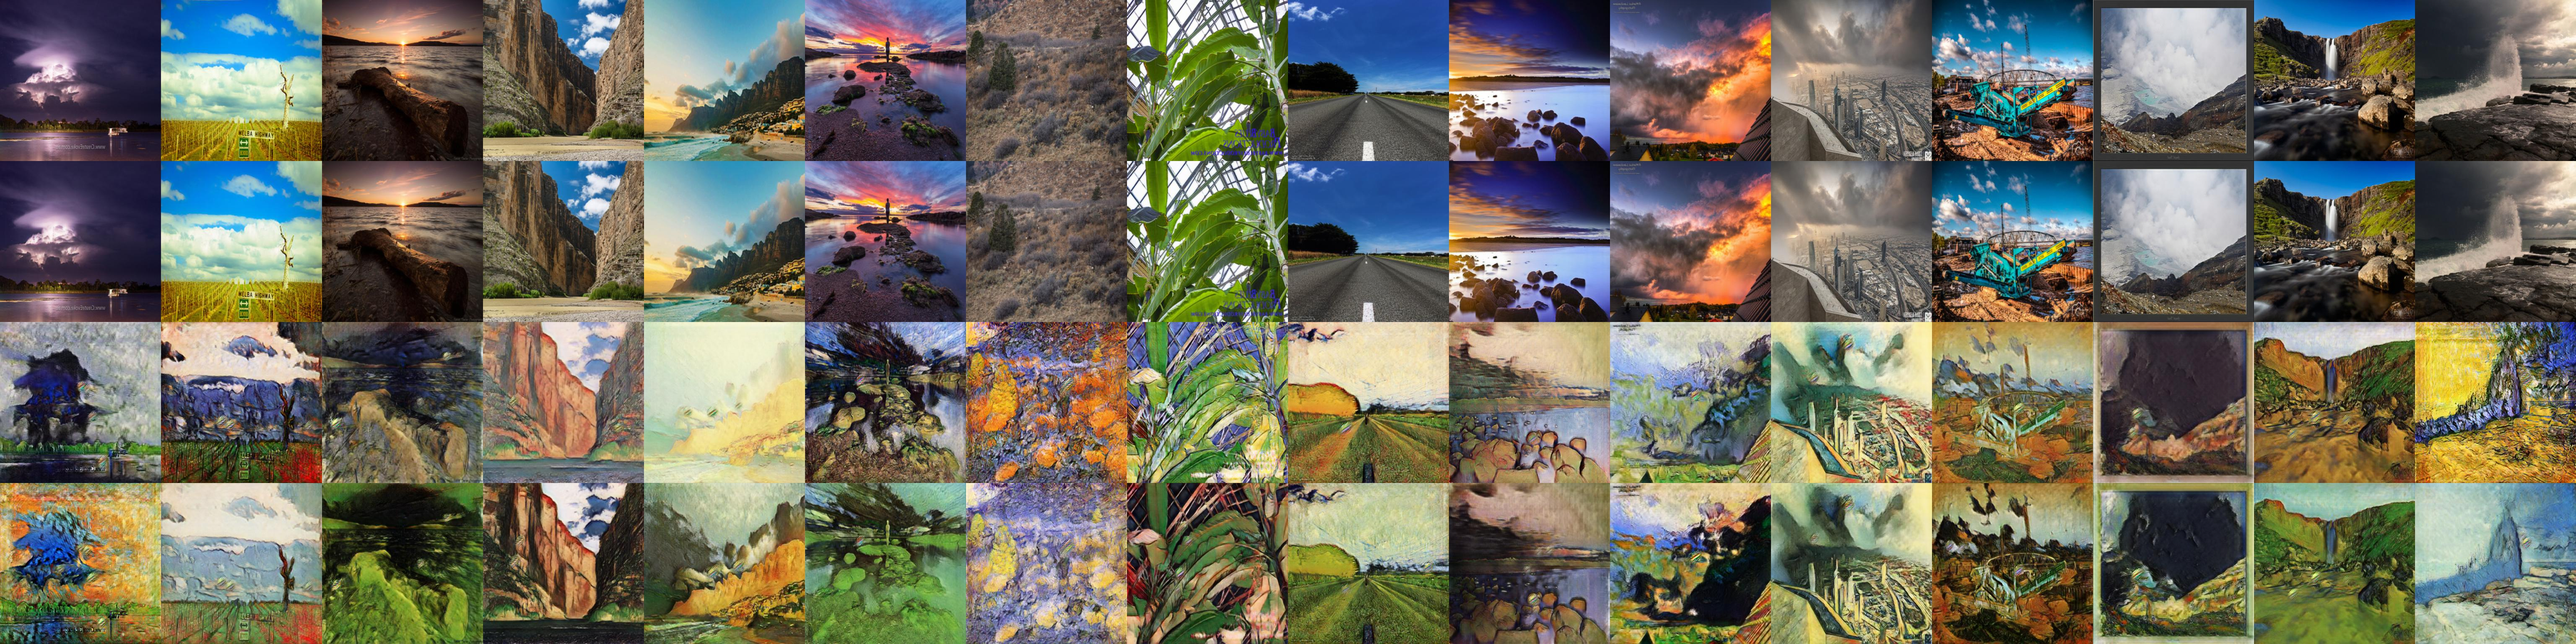
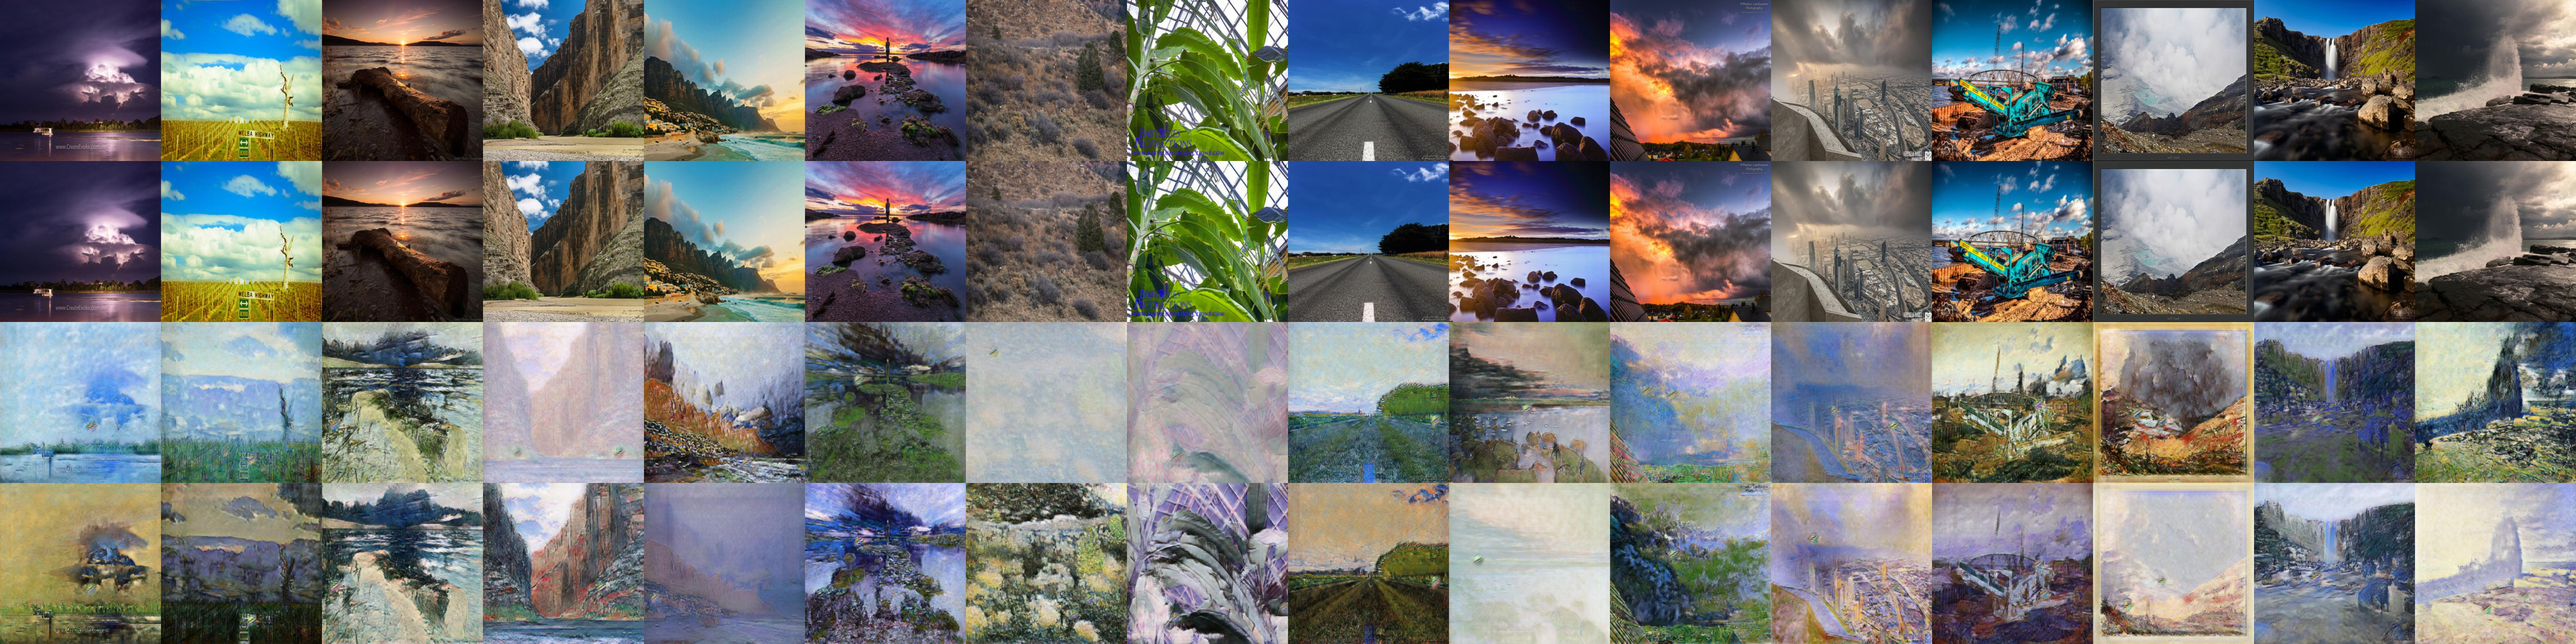
new images

diff --git a/model/new_munit_vgg_2.py b/model/new_munit_vgg_2.py
@@ -46,7 +46,7 @@ params = {
 'vgg_model_path': '/home/diegushko/checkpoint/vgg',
 
 # optimization options
-'max_iter': 300000,             # maximum number of training iterations
+'max_iter': 400000,             # maximum number of training iterations
 'batch_size': 1,                 # batch size
 'weight_decay': 0.0001,          # weight decay
 'beta1': 0.5,                    # Adam parameter
@@ -91,7 +91,7 @@ params = {
 'new_size': 384,                               # first resize the shortest image side to this size
 'crop_image_height': 384,                      # random crop image of this height
 'crop_image_width': 384,                       # random crop image of this width
-'data_root': '/home/diegushko/dataset/vangogh2photo'   # dataset folder location
+'data_root': '/home/diegushko/dataset/monet2photo'   # dataset folder location
 }
 
 IMG_EXTENSIONS = [

diff --git a/model/new_munit_vgg.py b/model/new_munit_vgg.py
@@ -46,7 +46,7 @@ params = {
 'vgg_model_path': '/home/diegushko/checkpoint/vgg',
 
 # optimization options
-'max_iter': 200000,             # maximum number of training iterations
+'max_iter': 400000,             # maximum number of training iterations
 'batch_size': 1,                 # batch size
 'weight_decay': 0.0001,          # weight decay
 'beta1': 0.5,                    # Adam parameter
